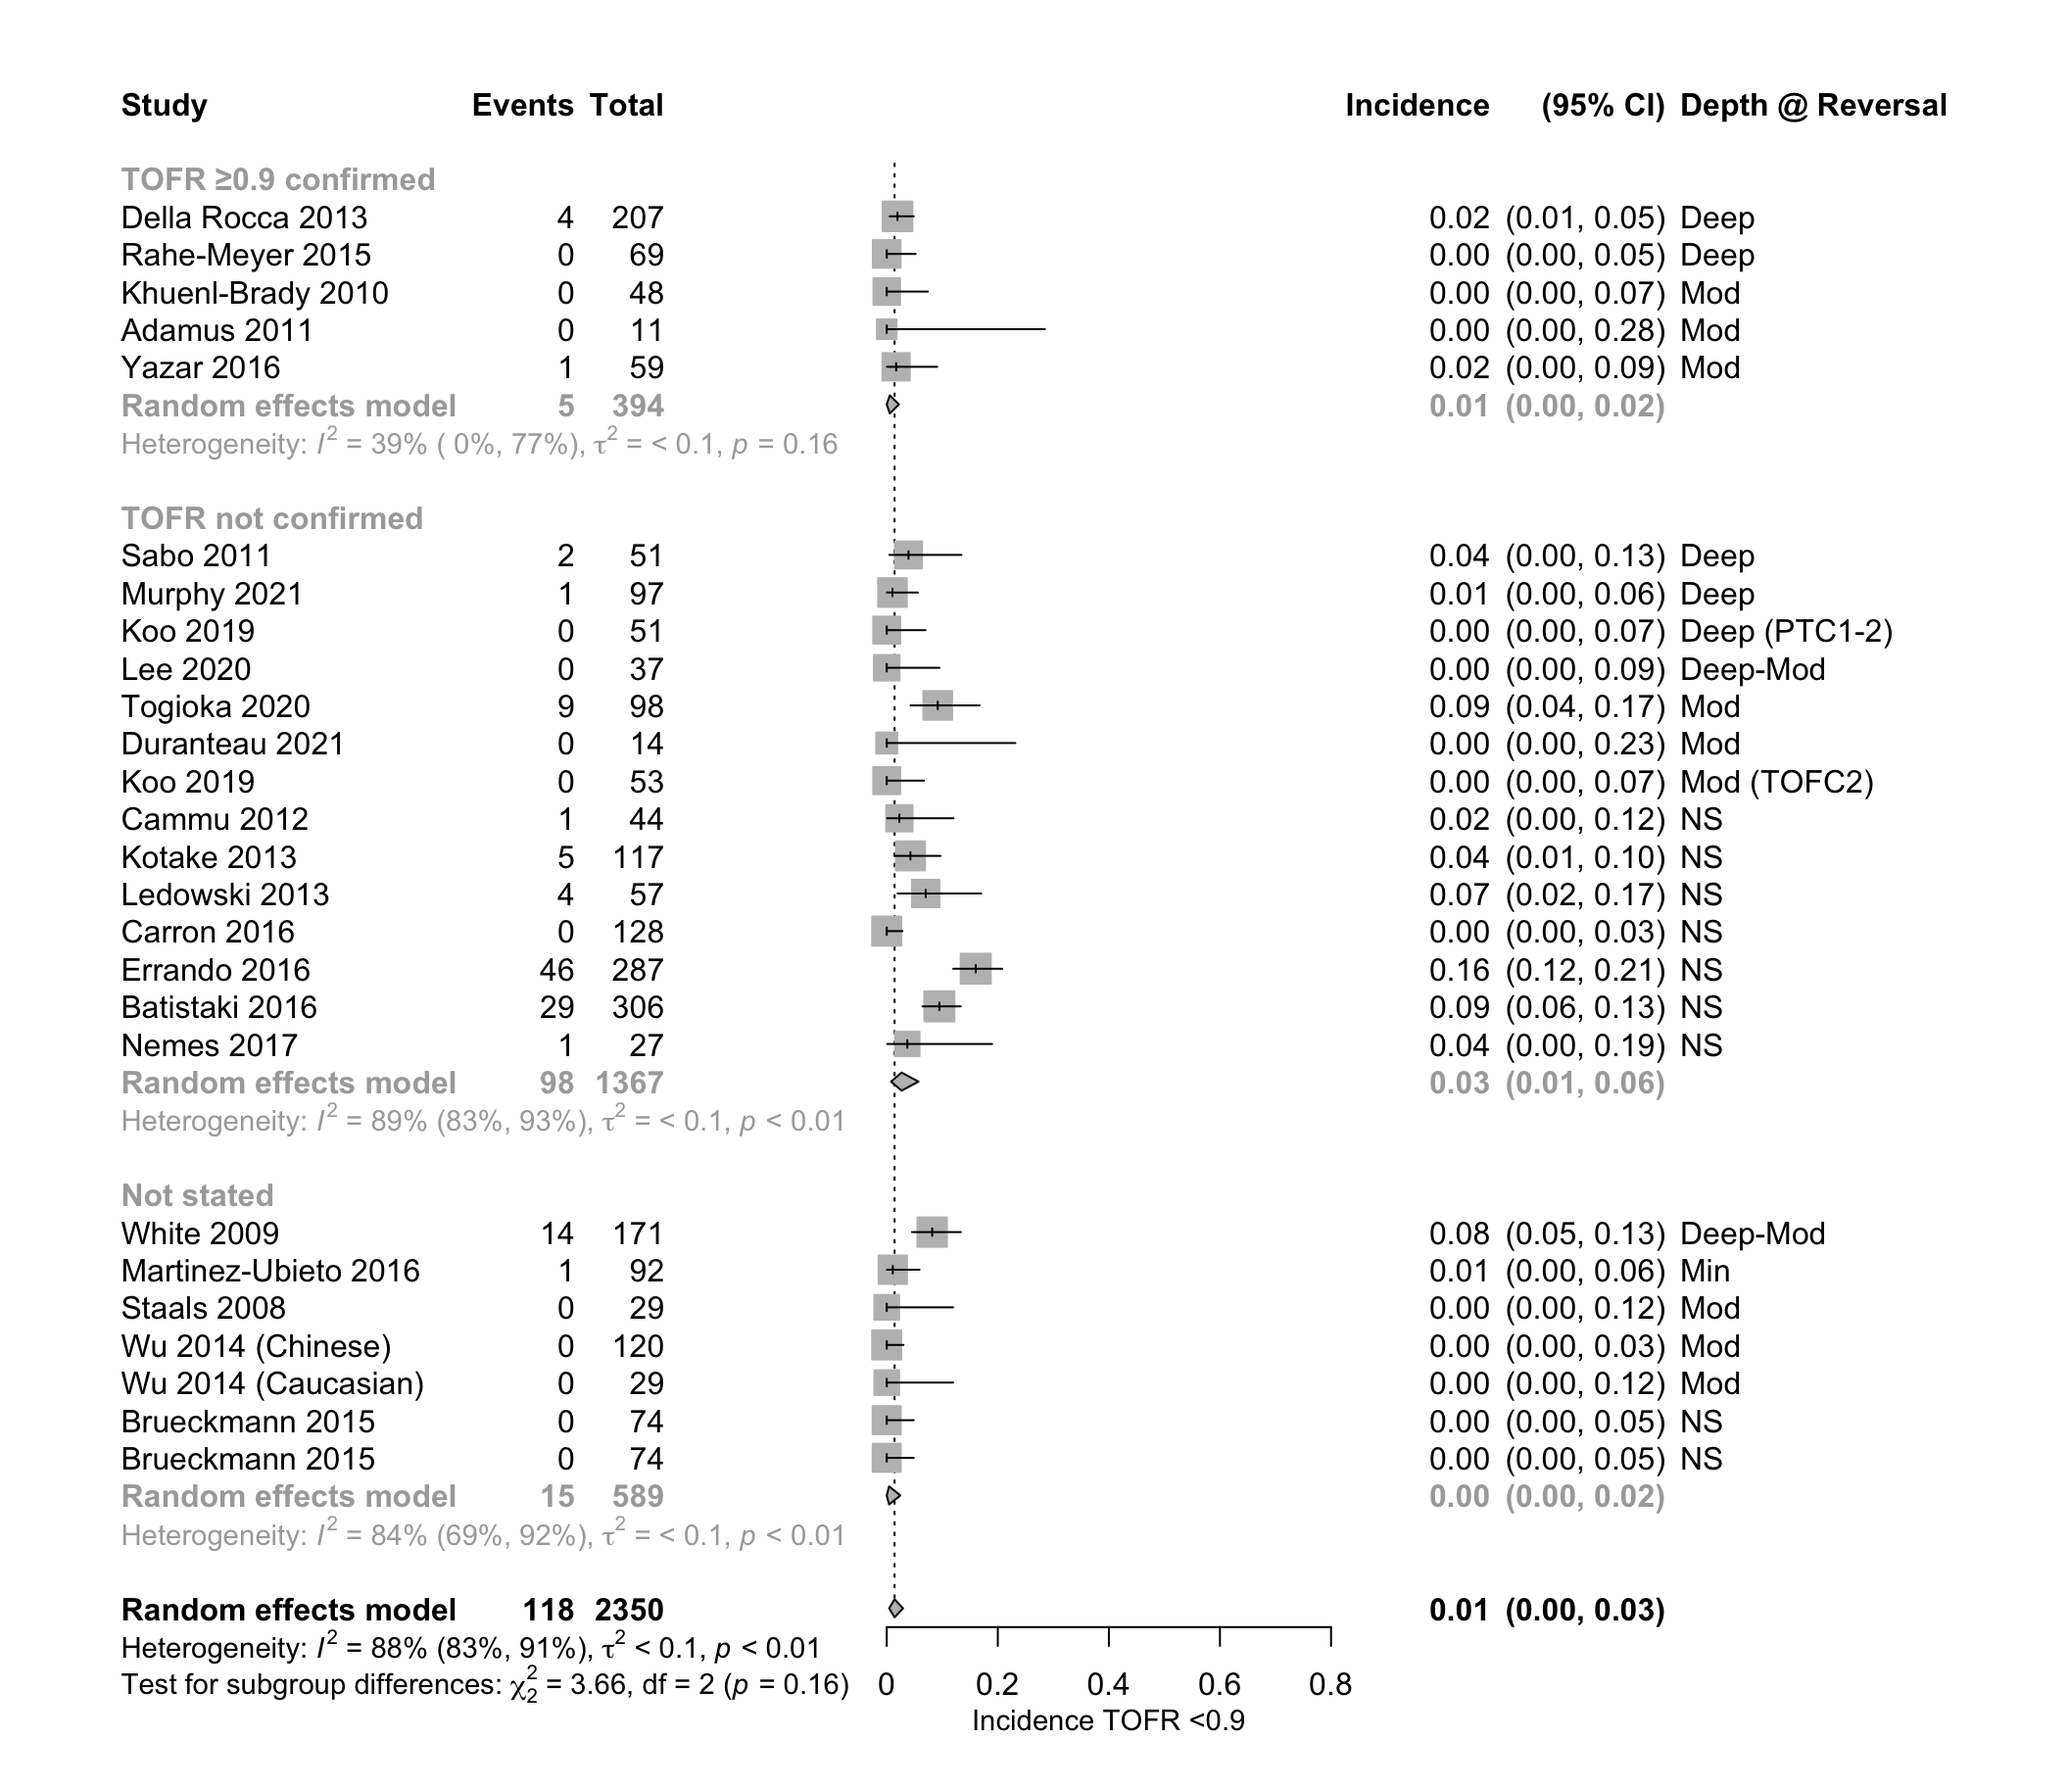
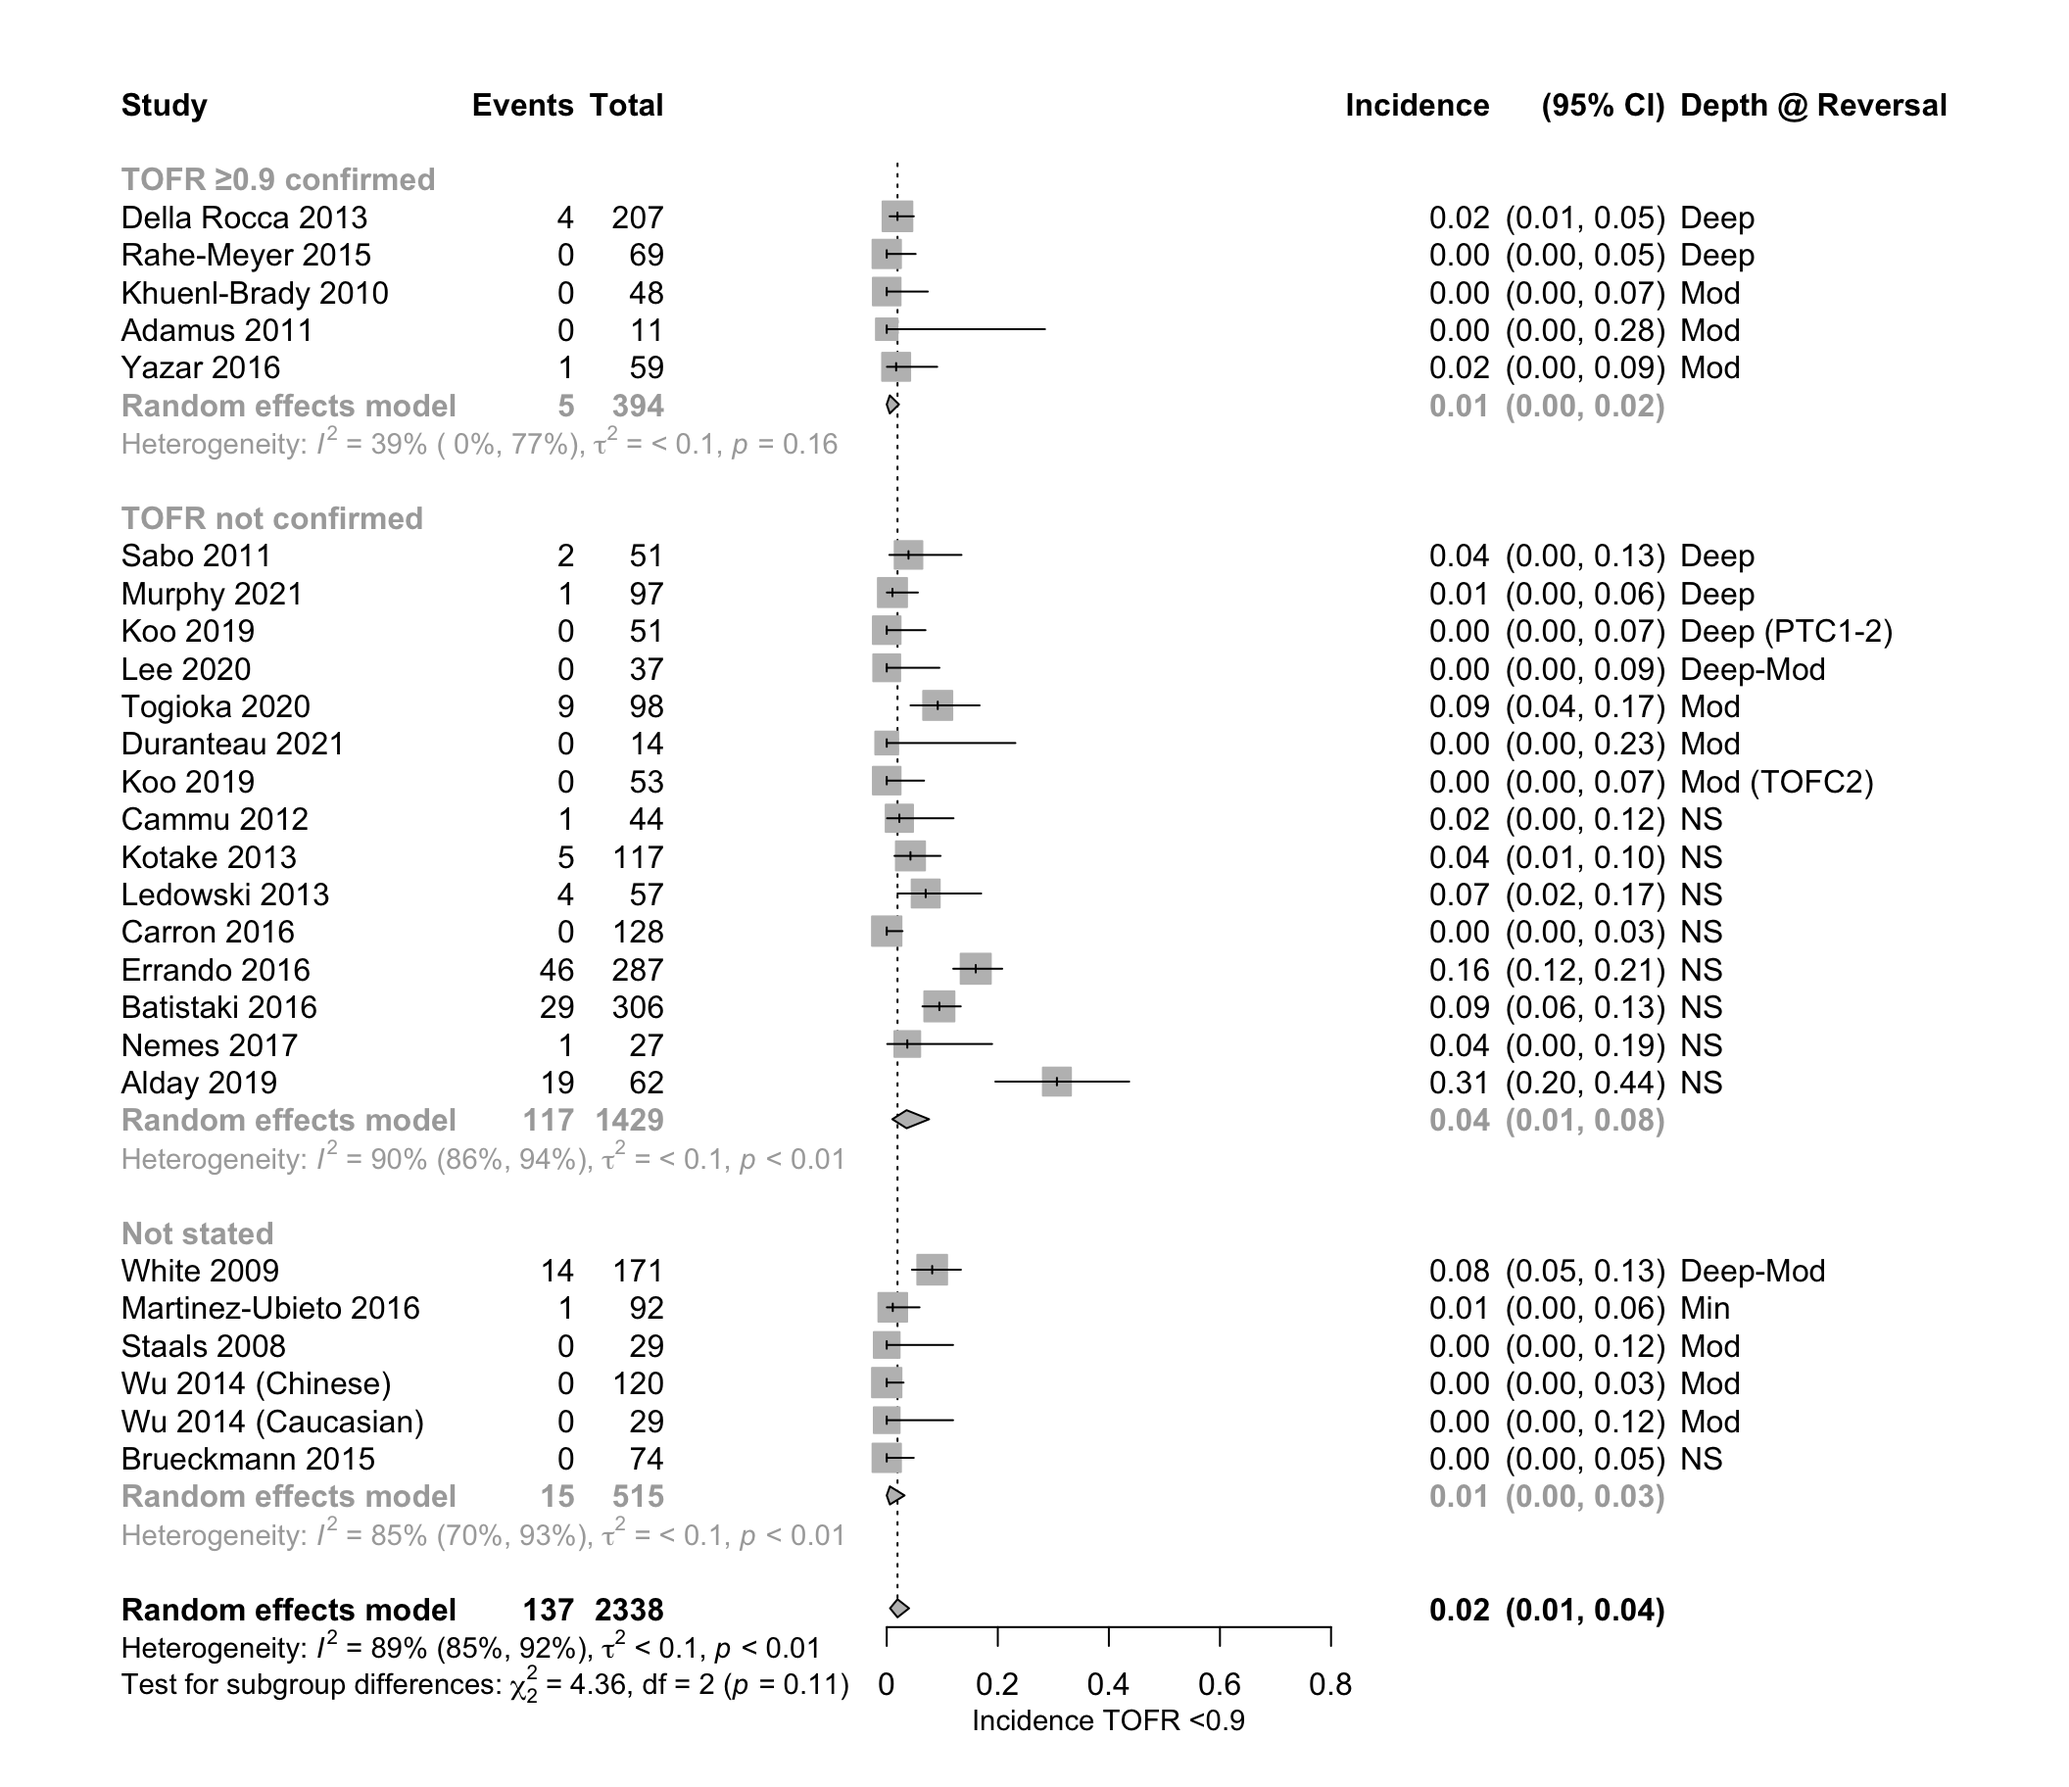
delete duplicated refid 2725

diff --git a/docs/tofr_confirm.html b/docs/tofr_confirm.html
@@ -434,7 +434,7 @@ div.tocify {
 
 
 <h1 class="title toc-ignore">TOFR Confirmation (draft/preliminary)</h1>
-<h4 class="date">20 March, 2022 (13:10)</h4>
+<h4 class="date">21 March, 2022 (07:54)</h4>
 
 </div>
 
@@ -463,7 +463,7 @@ aria-hidden="true"></span> </a>
 <div class="tab-content">
 <div id="summary" class="tab-pane fade in active">
 <p>
-<strong>Last updated:</strong> 2022-03-20
+<strong>Last updated:</strong> 2022-03-21
 </p>
 <p>
 <strong>Checks:</strong> <span
@@ -597,15 +597,15 @@ project makes it easier to run your code on other machines.</p>
 <div class="panel panel-default">
 <div class="panel-heading">
 <p class="panel-title">
-<a data-toggle="collapse" data-parent="#workflowr-checks" href="#strongRepositoryversionstrongahrefhttpsgithubcommdgrantNMBtree91946c19debc748bf2bd27542905550019401022targetblank91946c1a">
+<a data-toggle="collapse" data-parent="#workflowr-checks" href="#strongRepositoryversionstrongahrefhttpsgithubcommdgrantNMBtreecca893014ea97f849c70bbafdf98f011ddec4d23targetblankcca8930a">
 <span class="glyphicon glyphicon-ok text-success"
 aria-hidden="true"></span> <strong>Repository version:</strong>
-<a href="https://github.com/mdgrant/NMB/tree/91946c19debc748bf2bd27542905550019401022" target="_blank">91946c1</a>
+<a href="https://github.com/mdgrant/NMB/tree/cca893014ea97f849c70bbafdf98f011ddec4d23" target="_blank">cca8930</a>
 </a>
 </p>
 </div>
 <div
[2 lines of base64/hex data omitted]
 class="panel-collapse collapse">
 <div class="panel-body">
 <p>
@@ -615,7 +615,7 @@ reproducibility.
 </p>
 <p>
 The results in this page were generated with repository version
-<a href="https://github.com/mdgrant/NMB/tree/91946c19debc748bf2bd27542905550019401022" target="_blank">91946c1</a>.
+<a href="https://github.com/mdgrant/NMB/tree/cca893014ea97f849c70bbafdf98f011ddec4d23" target="_blank">cca8930</a>.
 See the <em>Past versions</em> tab to see a history of the changes made
 to the R Markdown and HTML files.
 </p>
@@ -651,7 +651,6 @@ Ignored files:
 Untracked files:
     Untracked:  .temp.lb
     Untracked:  analysis/.gitignore
-    Untracked:  analysis/summary_tech.Rmd
     Untracked:  code/.gitignore
     Untracked:  code/misc_calcs.R
     Untracked:  code/rob_111921.R
@@ -659,10 +658,6 @@ Untracked files:
     Untracked:  data/
 
 Unstaged changes:
-    Modified:   analysis/_site.yml
-    Modified:   analysis/index.Rmd
-    Modified:   analysis/kq1.Rmd
-    Modified:   analysis/summary_rev.Rmd
     Modified:   analysis/tofr_confirm.Rmd
 
 </code></pre>
@@ -709,6 +704,40 @@ Message
 </tr>
 </thead>
 <tbody>
+<tr>
+<td>
+Rmd
+</td>
+<td>
+<a href="https://github.com/mdgrant/NMB/blob/cca893014ea97f849c70bbafdf98f011ddec4d23/analysis/tofr_confirm.Rmd" target="_blank">cca8930</a>
+</td>
+<td>
+mdgrant
+</td>
+<td>
+2022-03-20
+</td>
+<td>
+summaries, confirm updates
+</td>
+</tr>
+<tr>
+<td>
+html
+</td>
+<td>
+<a href="https://rawcdn.githack.com/mdgrant/NMB/cca893014ea97f849c70bbafdf98f011ddec4d23/docs/tofr_confirm.html" target="_blank">cca8930</a>
+</td>
+<td>
+mdgrant
+</td>
+<td>
+2022-03-20
+</td>
+<td>
+summaries, confirm updates
+</td>
+</tr>
 <tr>
 <td>
 Rmd
@@ -945,6 +974,17 @@ Date
 <tbody>
 <tr>
 <td>
+<a href="https://github.com/mdgrant/NMB/blob/cca893014ea97f849c70bbafdf98f011ddec4d23/docs/figure/tofr_confirm.Rmd/rnmbMetaTofrSug-1.png" target="_blank">cca8930</a>
+</td>
+<td>
+mdgrant
+</td>
+<td>
+2022-03-20
+</td>
+</tr>
+<tr>
+<td>
 <a href="https://github.com/mdgrant/NMB/blob/67c6be9e6bd58b54d8b63a97849592644f9aff63/docs/figure/tofr_confirm.Rmd/rnmbMetaTofrSug-1.png" target="_blank">67c6be9</a>
 </td>
 <td>
@@ -982,7 +1022,7 @@ mdgrant
 </div>
 <p>Mod: moderate; Min: minimal; Oth: other; NS: not stated.<br/>
 Excluding Alday 2019 (an outlier) yielded a pooled result of for not
-cofirmed of 0.03 (95% CI: 0.01, 0.06) and overall 0.01 (95% CI: 0.00,
+cofirmed of 0.03 (95% CI: 0.01, 0.06) and overall 0.02 (95% CI: 0.00,
 0.03)</p>
 <p><br/></p>
 </div>
@@ -1016,6 +1056,17 @@ Date
 </tr>
 </thead>
 <tbody>
+<tr>
+<td>
+<a href="https://github.com/mdgrant/NMB/blob/cca893014ea97f849c70bbafdf98f011ddec4d23/docs/figure/tofr_confirm.Rmd/rnmbMetaTofrNeo-1.png" target="_blank">cca8930</a>
+</td>
+<td>
+mdgrant
+</td>
+<td>
+2022-03-20
+</td>
+</tr>
 <tr>
 <td>
 <a href="https://github.com/mdgrant/NMB/blob/67c6be9e6bd58b54d8b63a97849592644f9aff63/docs/figure/tofr_confirm.Rmd/rnmbMetaTofrNeo-1.png" target="_blank">67c6be9</a>
@@ -1064,8 +1115,45 @@ stated.</p>
 (TOFR &lt;0.9) in randomized and nonrandomized studies among patients
 given neostigmine and volatile anesthetic according to whether TOFR was
 reported as confirmed (all ≥ 0.9) prior to extubation. </font></p>
-<p><img src="figure/tofr_confirm.Rmd/rnmbMetaTofrNeoVolatile-1.png" width="1056" style="display: block; margin: auto auto auto 0;" />
-Mod: moderate; Min: minimal; Shall: shallow; Oth: other; NS: not
+<p><img src="figure/tofr_confirm.Rmd/rnmbMetaTofrNeoVolatile-1.png" width="1056" style="display: block; margin: auto auto auto 0;" /></p>
+<p>
+<button type="button" class="btn btn-default btn-xs btn-workflowr btn-workflowr-fig" data-toggle="collapse" data-target="#fig-rnmbMetaTofrNeoVolatile-1">
+Past versions of rnmbMetaTofrNeoVolatile-1.png
+</button>
+</p>
+<div id="fig-rnmbMetaTofrNeoVolatile-1" class="collapse">
+<div class="table-responsive">
+<table class="table table-condensed table-hover">
+<thead>
+<tr>
+<th>
+Version
+</th>
+<th>
+Author
+</th>
+<th>
+Date
+</th>
+</tr>
+</thead>
+<tbody>
+<tr>
+<td>
+<a href="https://github.com/mdgrant/NMB/blob/cca893014ea97f849c70bbafdf98f011ddec4d23/docs/figure/tofr_confirm.Rmd/rnmbMetaTofrNeoVolatile-1.png" target="_blank">cca8930</a>
+</td>
+<td>
+mdgrant
+</td>
+<td>
+2022-03-20
+</td>
+</tr>
+</tbody>
+</table>
+</div>
+</div>
+<p>Mod: moderate; Min: minimal; Shall: shallow; Oth: other; NS: not
 stated.</p>
 <p><br/></p>
 </div>
@@ -1076,8 +1164,45 @@ stated.</p>
 (TOFR &lt;0.9) in randomized and nonrandomized studies among patients
 given neostigmine and no volatile anesthetic according to whether TOFR
 was reported as confirmed (all ≥ 0.9) prior to extubation. </font></p>
-<p><img src="figure/tofr_confirm.Rmd/rnmbMetaTofrNeoNoVolatile-1.png" width="1008" style="display: block; margin: auto auto auto 0;" />
-Mod: moderate; Min: minimal; Shall: shallow; Oth: other; NS: not
+<p><img src="figure/tofr_confirm.Rmd/rnmbMetaTofrNeoNoVolatile-1.png" width="1008" style="display: block; margin: auto auto auto 0;" /></p>
+<p>
+<button type="button" class="btn btn-default btn-xs btn-workflowr btn-workflowr-fig" data-toggle="collapse" data-target="#fig-rnmbMetaTofrNeoNoVolatile-1">
+Past versions of rnmbMetaTofrNeoNoVolatile-1.png
+</button>
+</p>
+<div id="fig-rnmbMetaTofrNeoNoVolatile-1" class="collapse">
+<div class="table-responsive">
+<table class="table table-condensed table-hover">
+<thead>
+<tr>
+<th>
+Version
+</th>
+<th>
+Author
+</th>
+<th>
+Date
+</th>
+</tr>
+</thead>
+<tbody>
+<tr>
+<td>
+<a href="https://github.com/mdgrant/NMB/blob/cca893014ea97f849c70bbafdf98f011ddec4d23/docs/figure/tofr_confirm.Rmd/rnmbMetaTofrNeoNoVolatile-1.png" target="_blank">cca8930</a>
+</td>
+<td>
+mdgrant
+</td>
+<td>
+2022-03-20
+</td>
+</tr>
+</tbody>
+</table>
+</div>
+</div>
+<p>Mod: moderate; Min: minimal; Shall: shallow; Oth: other; NS: not
 stated.</p>
 <br>
 <p>
@@ -1123,7 +1248,7 @@ loaded via a namespace (and not attached):
 [37] fastmap_1.1.0          htmlwidgets_1.5.4      rlang_1.0.2           
 [40] readxl_1.3.1           rstudioapi_0.13.0-9000 jquerylib_0.1.4       
 [43] generics_0.1.2         jsonlite_1.8.0         vroom_1.5.7           
-[46] magrittr_2.0.2         Matrix_1.4-0           Rcpp_1.0.8.2          
+[46] magrittr_2.0.2         Matrix_1.4-0           Rcpp_1.0.8.3          
 [49] munsell_0.5.0          fansi_1.0.2            lifecycle_1.0.1       
 [52] visdat_0.5.3           stringi_1.7.6          whisker_0.4           
 [55] yaml_2.3.5             CompQuadForm_1.4.3     snakecase_0.11.0      
